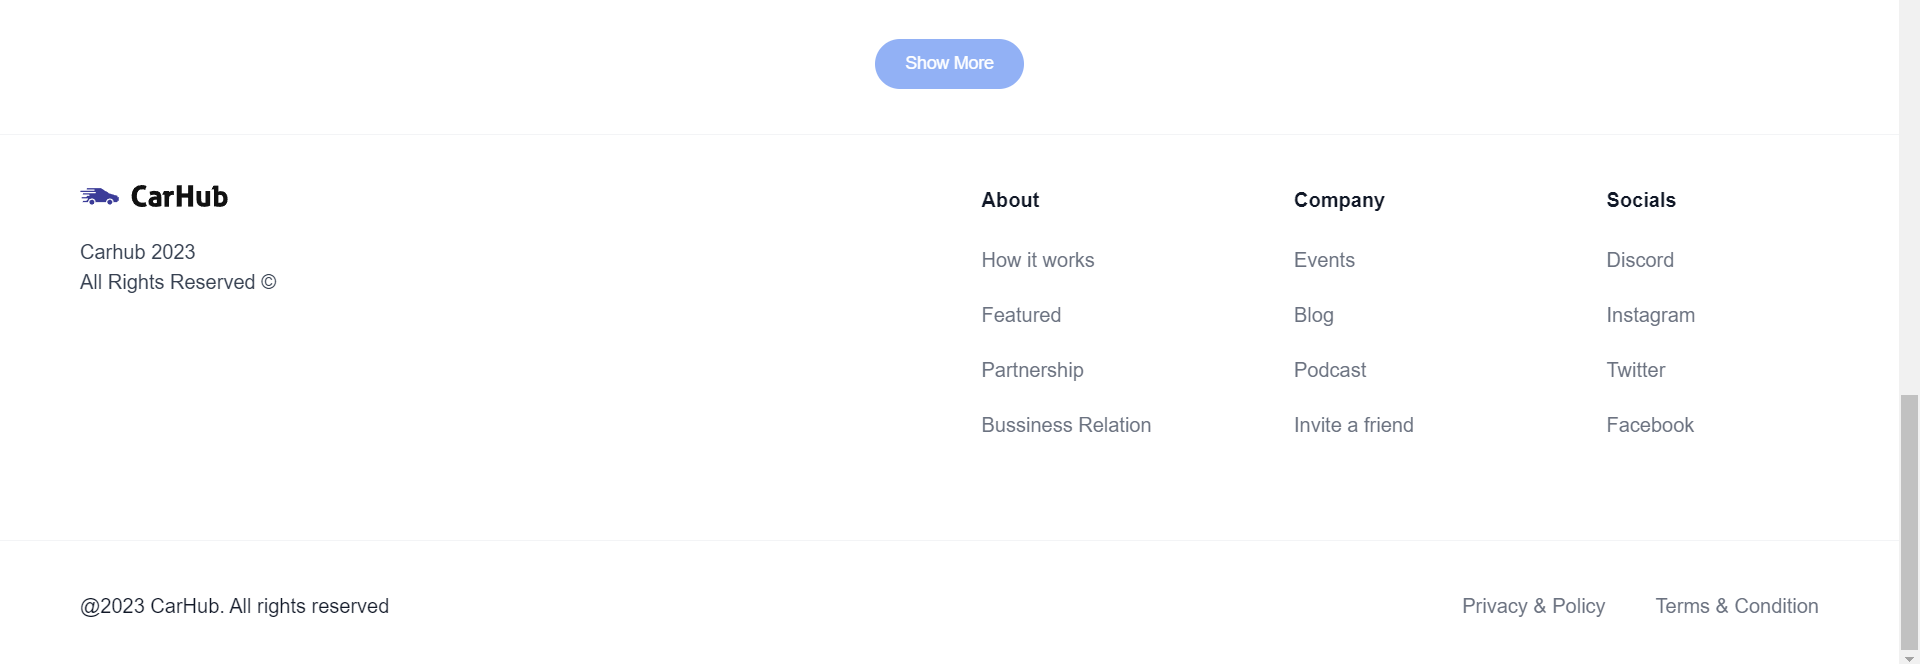
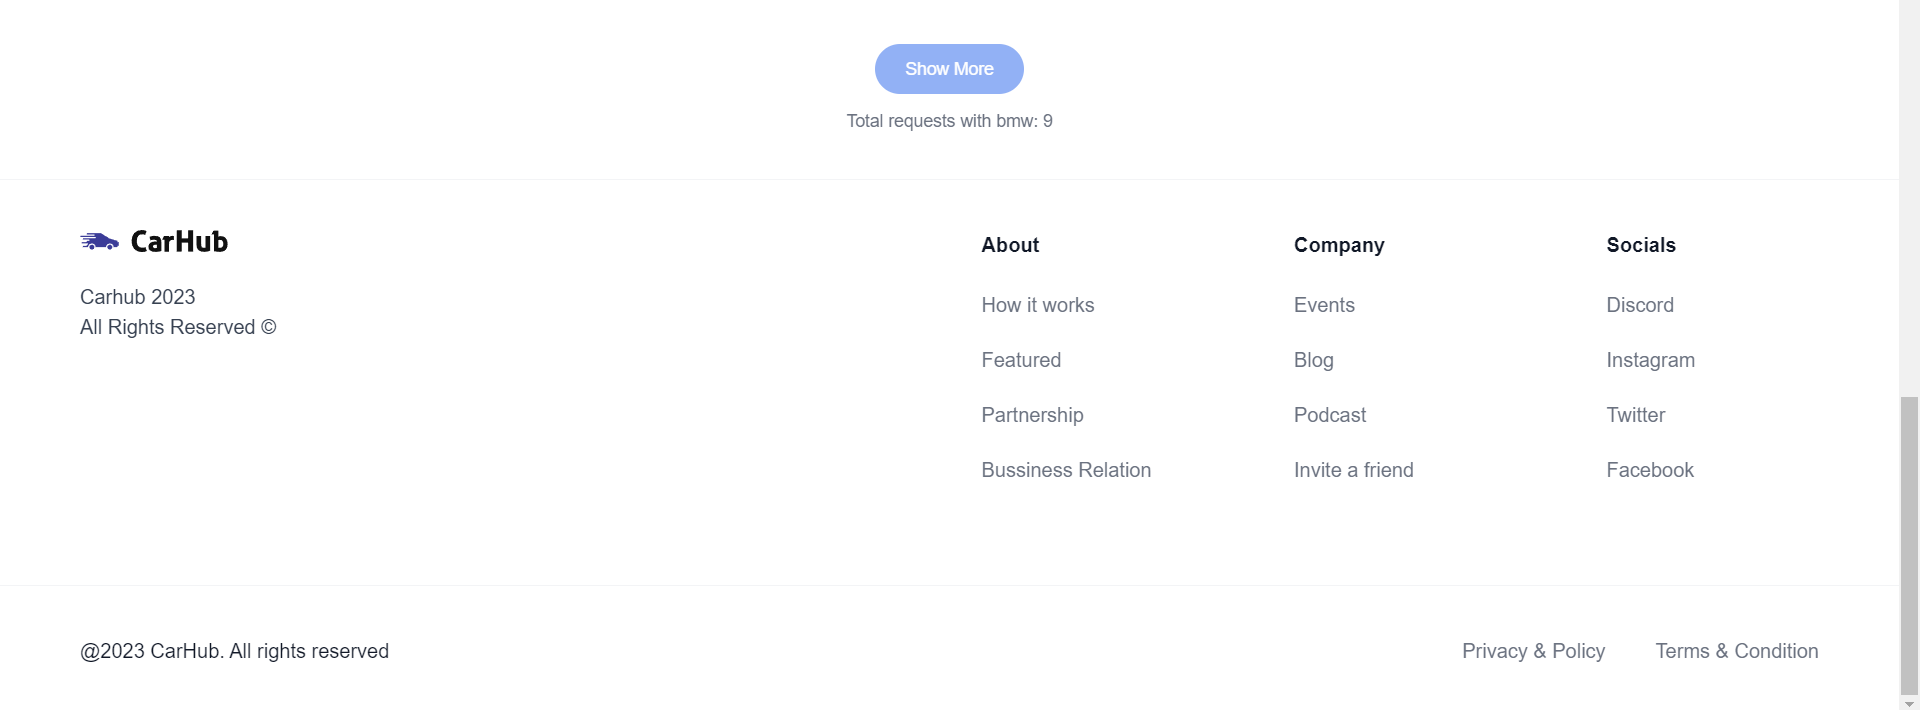
Adding statistic info

diff --git a/src/app/page.tsx b/src/app/page.tsx
@@ -21,6 +21,7 @@ export default async function Home({ searchParams }: HomeProps) {
     })
 
     const pageInfo = data.feed.pageInfo
+    const makeCount = data.feed.makeCount
     const isDataEmpty = data.feed.totalCount === 0
 
     return (
@@ -60,7 +61,6 @@ export default async function Home({ searchParams }: HomeProps) {
                                     <CarCard key={cursor} car={node} />
                                 ))}
                             </div>
-
                             <ShowMore
                                 pageNumber={
                                     isNaN(Number(searchParams.first))
@@ -70,6 +70,12 @@ export default async function Home({ searchParams }: HomeProps) {
                                 }
                                 hasNext={pageInfo.hasNextPage}
                             />
+                            {makeCount && (
+                                <section className="flex-center mt-3 text-sm text-gray-500">
+                                    Total requests with {makeCount.make}:{" "}
+                                    {makeCount?.count}
+                                </section>
+                            )}
                         </section>
                     )}
                 </div>

diff --git a/src/lib/callback-server.ts b/src/lib/callback-server.ts
@@ -21,6 +21,10 @@ const GET_CARS = g(/* GraphQL */ `
             after: $after
         ) {
             totalCount
+            makeCount {
+                make
+                count
+            }
             pageInfo {
                 endCursor
                 hasNextPage
